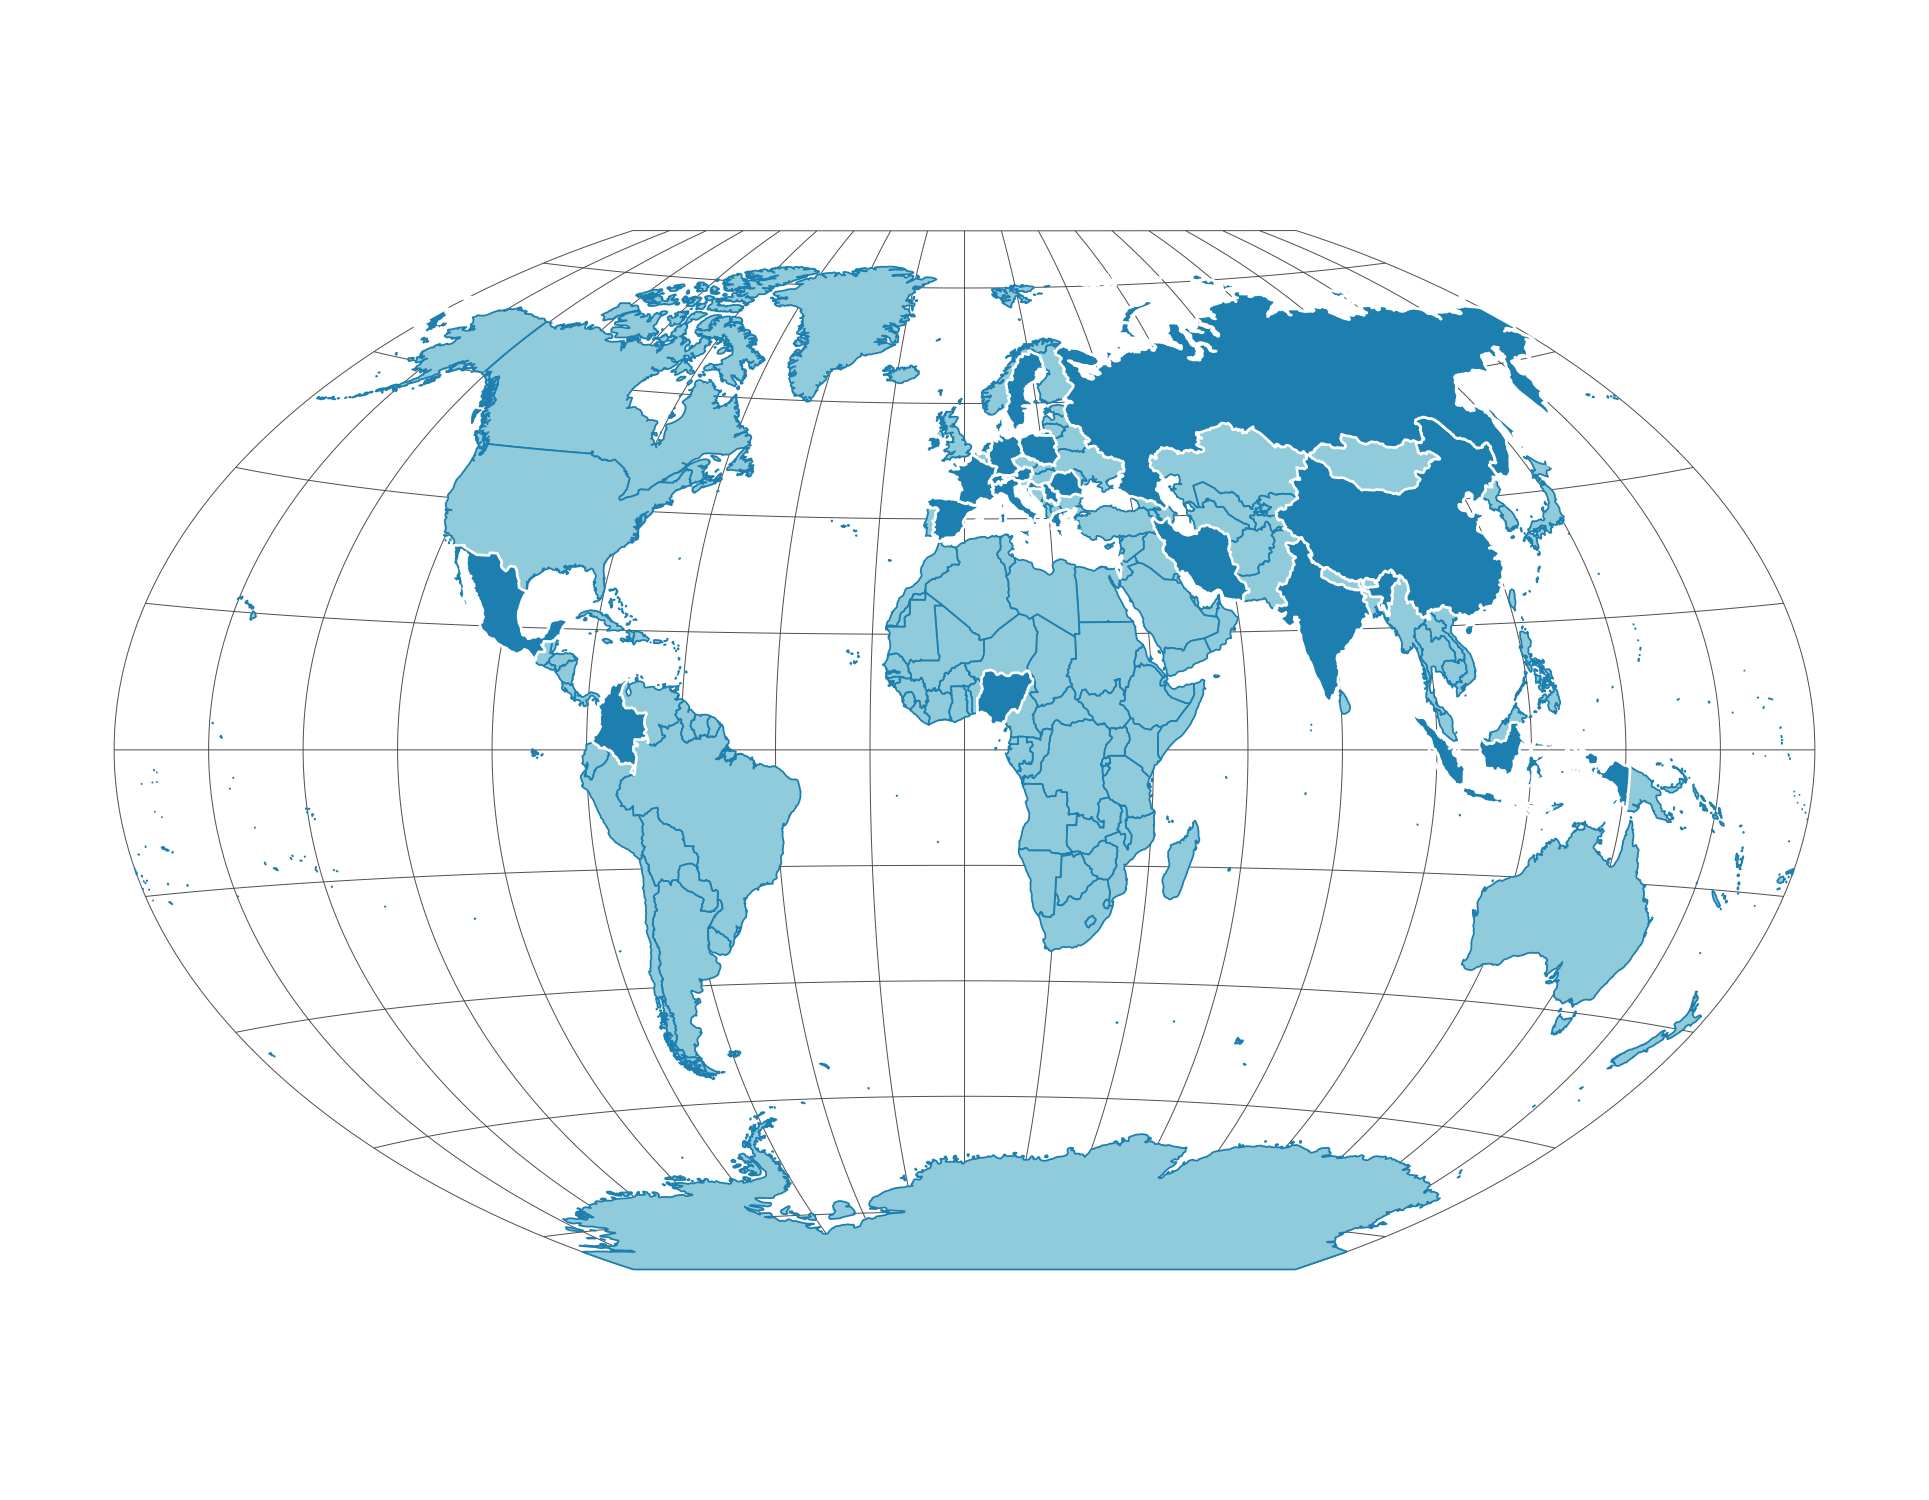
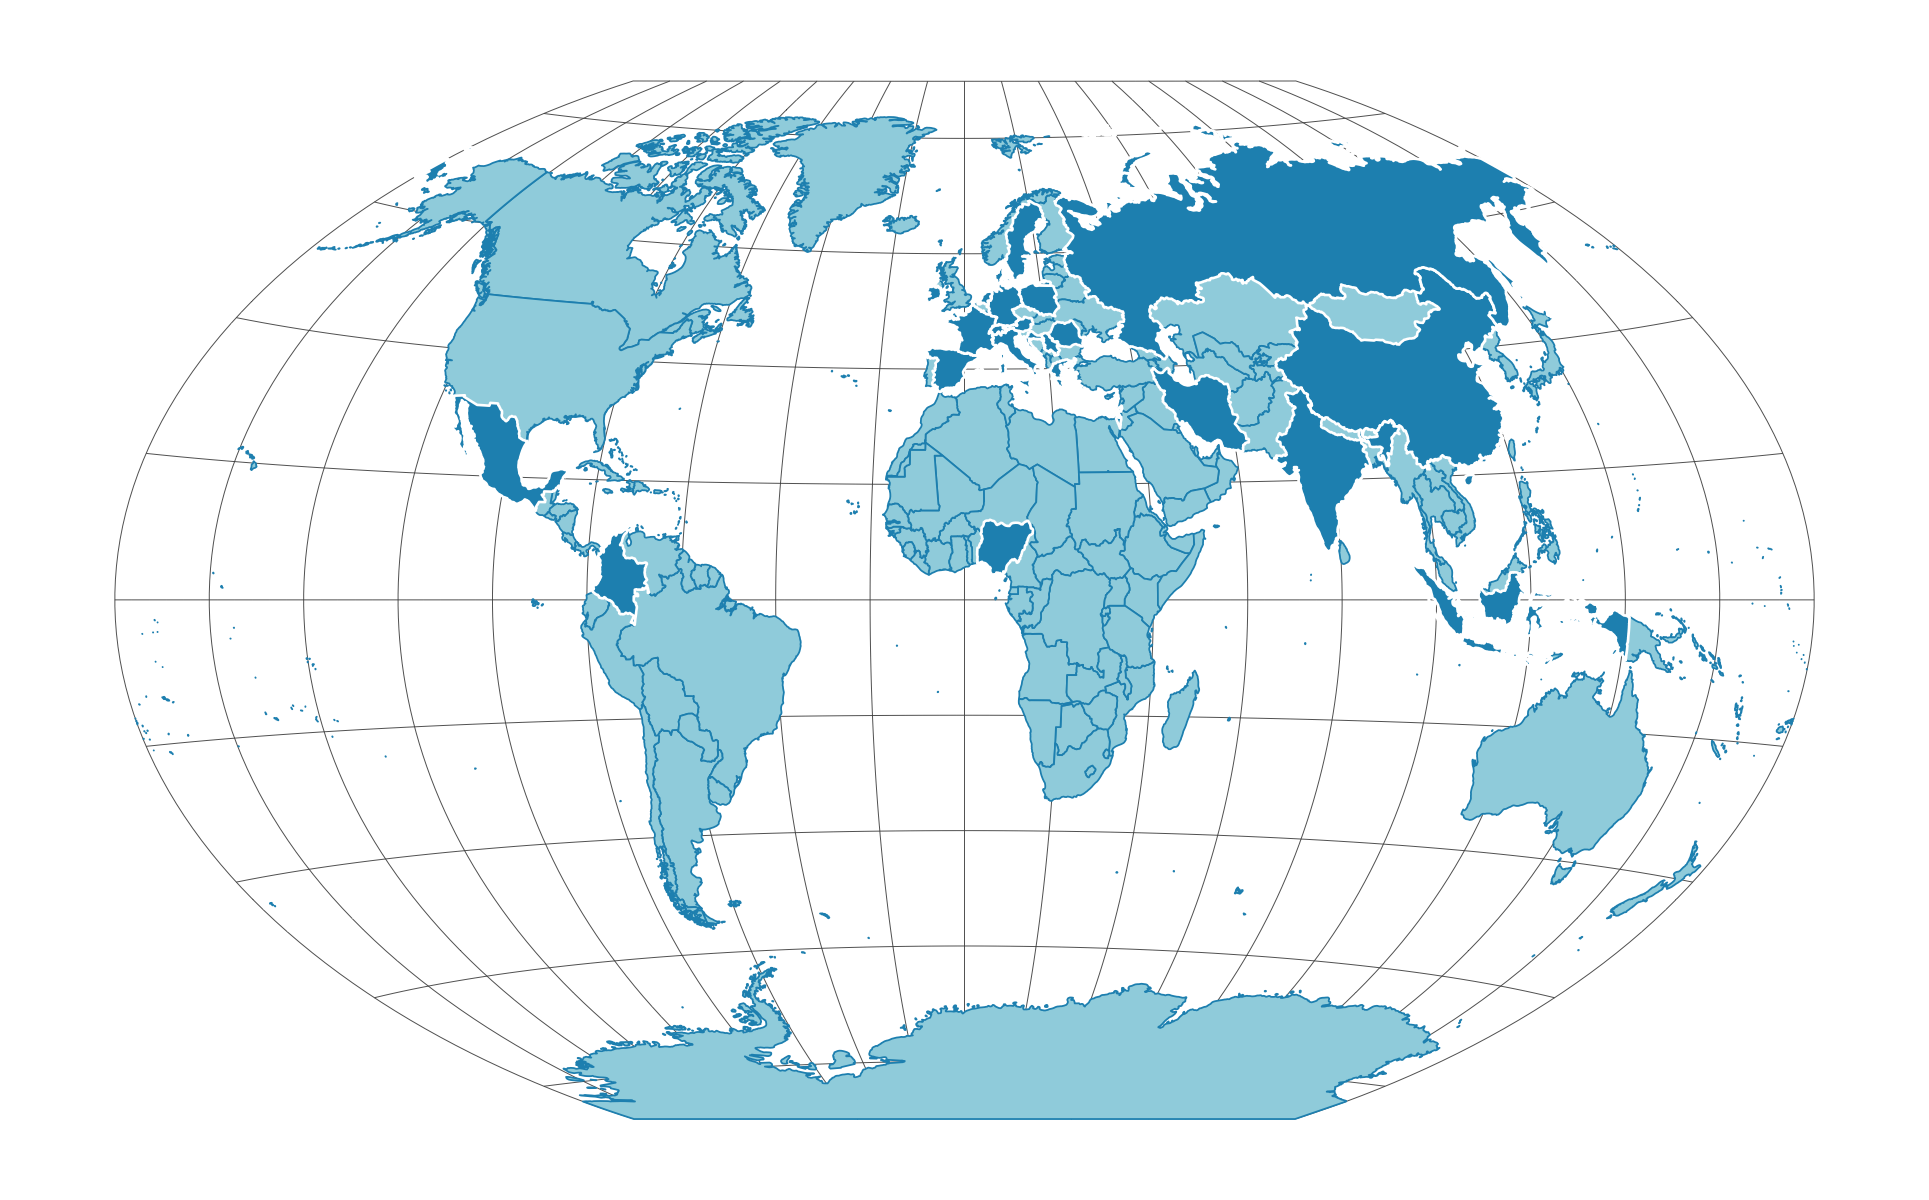
Just do it.

diff --git a/plots/geographical_world_1/index.html b/plots/geographical_world_1/index.html
@@ -123,7 +123,7 @@ p <span style="color:#f92672">&lt;-</span> <span style="color:#a6e22e">ggplot</s
   <span style="color:#a6e22e">scale_fill_manual</span>(values <span style="color:#f92672">=</span> <span style="color:#a6e22e">c</span>(<span style="color:#e6db74">&#34;</span><span style="color:#e6db74">#9fd4e1&#34;</span>, <span style="color:#e6db74">&#34;</span><span style="color:#e6db74">#1e92bd&#34;</span>)) <span style="color:#f92672">+</span>
   <span style="color:#a6e22e">scale_color_manual</span>(values <span style="color:#f92672">=</span> <span style="color:#a6e22e">c</span>(<span style="color:#e6db74">&#34;</span><span style="color:#e6db74">#1e92bd&#34;</span>, <span style="color:#e6db74">&#34;</span><span style="color:#e6db74">white&#34;</span>)) <span style="color:#f92672">+</span>
   <span style="color:#a6e22e">theme_map</span>()
-<span style="color:#a6e22e">ggsave</span>(<span style="color:#e6db74">&#39;</span><span style="color:#e6db74">world_1.png&#39;</span>, p, height <span style="color:#f92672">=</span> <span style="color:#ae81ff">5</span>, width <span style="color:#f92672">=</span> <span style="color:#ae81ff">6.43</span>)
+<span style="color:#a6e22e">ggsave</span>(<span style="color:#e6db74">&#39;</span><span style="color:#e6db74">world_1.png&#39;</span>, p, height <span style="color:#f92672">=</span> <span style="color:#ae81ff">4</span>, width <span style="color:#f92672">=</span> <span style="color:#ae81ff">6.43</span>)
 </code></pre></div>
           </div>
 
